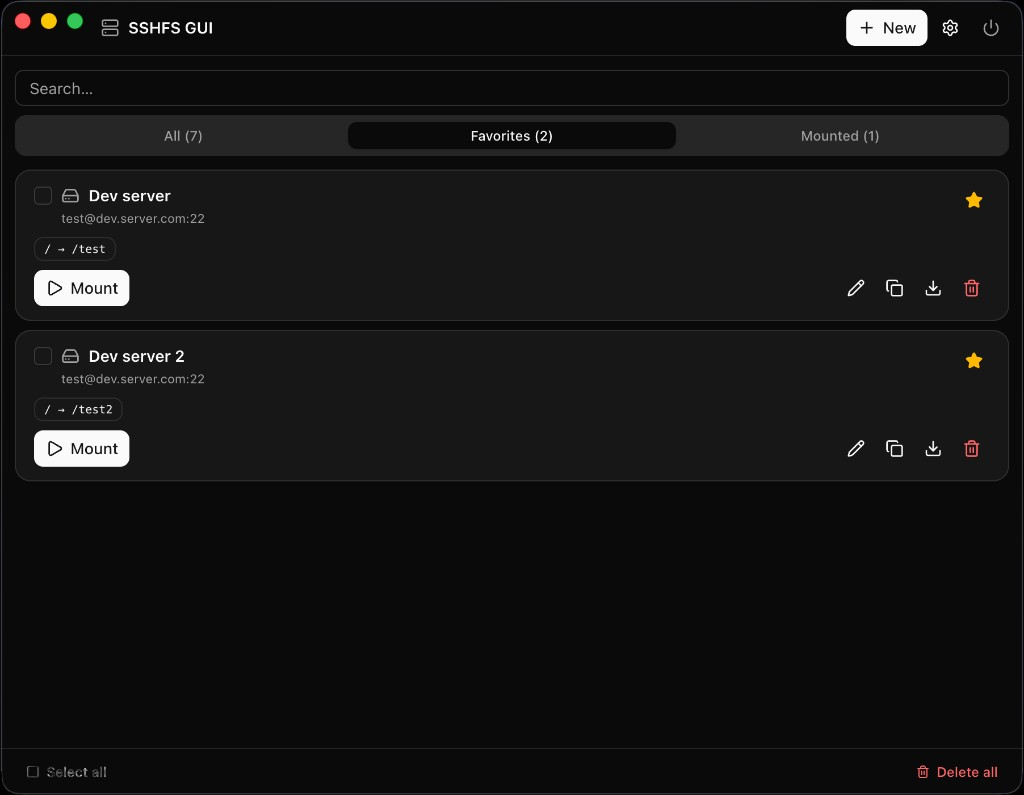
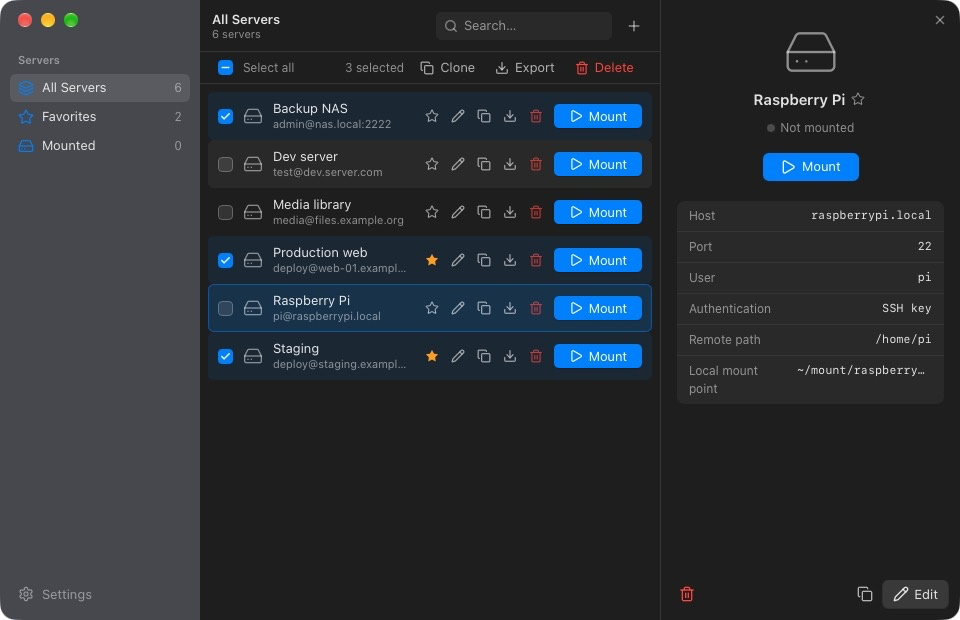
Ship sshfs and FUSE-T inside the app
- Build sshfs against FUSE-T with a static GLib built from source for macOS 11, arm64 and x86_64
- Bundle sshfs, go-nfsv4, libfuse3 and the third-party licenses through tauri.bundled-sshfs.conf.json
- Release and build scripts stage the bundled binaries; CI builds and checks them for both architectures
- README, changelog and screenshot for 1.2.0

diff --git a/README.md b/README.md
@@ -18,13 +18,14 @@
 </p>
 
 <p align="center">
-  <img src="resources/screenshot.png" width="720" alt="SSHFS GUI main window with saved servers, favorites filter, and mount actions">
+  <img src="resources/screenshot.png" width="720" alt="SSHFS GUI main window with the sidebar, a multiple selection and the detail panel">
 </p>
 
 ---
 
 ## Features
 
+- **Batteries included** - sshfs and FUSE-T are built in, no extra installs
 - **Multiple servers** - Save, edit, clone, and organize as many SSH connections as you need
 - **One-click mount/unmount** - Mount remote directories to local folders with a single click
 - **Favorites & filters** - Star your most-used servers, filter by favorites or mounted status
@@ -33,49 +34,14 @@
 - **Multiple auth methods** - SSH agent, SSH key, or password authentication
 - **Menu bar mode** - Optionally run as a menu bar app with quick access from the tray icon
 - **Import / Export** - Transfer server configurations and settings between machines via JSON
-- **Bulk actions** - Select multiple servers to clone, export, or delete at once
+- **Bulk actions** - Select servers with checkboxes or by dragging, then clone, export, or delete them at once
 - **Multi-language** - English and Italian, with automatic detection or manual override
-- **Native macOS look** - Dark mode, custom title bar, smooth animations
+- **Native macOS look** - Translucent sidebar, system light/dark theme and accent color, native menus
 - **Reveal in Finder** - Open mounted directories directly in Finder
 
 ## Requirements
 
-SSHFS GUI needs a **FUSE stack** on macOS: a FUSE implementation plus an `sshfs` binary. Homebrew's core formula `sshfs` depends on Linux (`libfuse`) and **does not install on macOS**. Use the references below, or install via Homebrew (pick one stack).
-
-**References:** [FUSE-T](https://github.com/macos-fuse-t/fuse-t) · [FUSE-T SSHFS](https://github.com/macos-fuse-t/sshfs) · [macFUSE](https://macfuse.io/) · [Homebrew](https://brew.sh)
-
-### Install with Homebrew
-
-#### Option A - FUSE-T + SSHFS (no kernel extension)
-
-Uses NFS locally instead of a kext. Usually the simplest path on recent macOS.
-
-```bash
-brew tap macos-fuse-t/homebrew-cask
-brew install --cask fuse-t fuse-t-sshfs
-```
-
-On some macOS versions with FUSE-T, Finder may need extra `sshfs` options (e.g. `-o nonamedattr`). Add them in the app's SSHFS extra options if you hit mount or copy issues.
-
-#### Option B - macFUSE + SSHFS (kernel extension)
-
-Use this if you need the classic macFUSE stack or already rely on it.
-
-1. Install [macFUSE](https://macfuse.io/) (allow the system extension when macOS prompts you).
-
-   ```bash
-   brew install --cask macfuse
-   ```
-
-2. Install **SSHFS for macFUSE** (separate from Homebrew core `sshfs`):
-
-   ```bash
-   brew install gromgit/fuse/sshfs-mac
-   ```
-
-This tap targets macFUSE. Upstream SSHFS is older than on Linux: see the formula caveats. Alternatively, install SSHFS from the [macFUSE / SSHFS project](https://github.com/macfuse/sshfs) if you prefer their official packages.
-
-The app checks for these dependencies and shows guidance if `sshfs` or FUSE is missing.
+macOS 11 or later. SSHFS GUI ships with everything it needs to mount: `sshfs` and [FUSE-T](https://www.fuse-t.org), which works without kernel extensions. Nothing else to install, and it runs alongside any sshfs, macFUSE or FUSE-T already on your Mac.
 
 ## Installation
 
@@ -85,7 +51,7 @@ Download the latest `.dmg` from [Releases](https://github.com/tommasomeli/sshfsg
 
 ### Adding a server
 
-1. Click **+ New** in the top bar
+1. Click **+** in the toolbar (or press `⌘N`)
 2. Fill in the connection details:
    - **Name** - A friendly label (e.g. "Production DB")
    - **Host** - Hostname or IP address
@@ -101,17 +67,17 @@ Download the latest `.dmg` from [Releases](https://github.com/tommasomeli/sshfsg
 
 ### Mounting
 
-Click **Mount** on any server card. The green dot indicates an active mount. Click **Unmount** to disconnect.
+Click **Mount** on any server row. A green dot marks an active mount; click **Unmount** to disconnect. The folder icon reveals the mount in Finder.
 
-Use the folder icon to reveal the mounted directory in Finder.
+Click a row to open its details in the side panel, which you can resize by dragging its edge. Double-click a row to edit it, right-click for the context menu.
 
-### Bulk operations
+### Selecting several servers
 
-Use the checkboxes on each server card to select multiple servers. The bottom bar shows available actions: **Clone**, **Export**, and **Delete**.
+Tick the checkboxes or drag a rectangle over the list. The bar above the list then offers **Clone**, **Export**, and **Delete** for the selection.
 
 ### Settings
 
-Open settings via the gear icon or `⌘,`:
+Open settings from the sidebar or with `⌘,`:
 
 - **Language** - System, English, or Italian
 - **Launch at login** - Start the app when you log in
@@ -121,7 +87,7 @@ Open settings via the gear icon or `⌘,`:
 
 ## Development
 
-Requirements: [Node.js](https://nodejs.org/) 20+, [pnpm](https://pnpm.io/) 10+, and a stable [Rust](https://www.rust-lang.org/tools/install) toolchain.
+Requirements: [Node.js](https://nodejs.org/) 20+, [pnpm](https://pnpm.io/) 10+, a stable [Rust](https://www.rust-lang.org/tools/install) toolchain, and for release builds `meson` and `ninja` (`brew install meson ninja`).
 
 ```bash
 pnpm install
@@ -133,6 +99,10 @@ pnpm run icons
 ```
 
 `pnpm run icons` regenerates `src-tauri/icons` from `resources/icon.svg`.
+
+Release builds run [`scripts/fuse-t/build-bundled-sshfs.sh`](scripts/fuse-t/build-bundled-sshfs.sh) first: it downloads pinned sources, builds sshfs against FUSE-T with a static GLib, and stages the files that go inside the app. `pnpm dev` uses the `sshfs` found on your system.
+
+`pnpm demo:seed` swaps your servers for a demo set (for screenshots) and `pnpm demo:restore` puts yours back. Quit the app before running either.
 
 Shared metadata lives in `src/shared/`:
 - `app-info.json` - product name, app id, slug, developer, GitHub URL, description, export format version
@@ -158,3 +128,5 @@ See [CONTRIBUTING.md](CONTRIBUTING.md). Bug reports and feature requests use the
 ## License
 
 [ISC](LICENSE) - Tommaso Meli
+
+The app bundles third-party software under its own licenses: [sshfs](https://github.com/macos-fuse-t/sshfs) (GPL-2.0), [FUSE-T](https://www.fuse-t.org) (FUSE-T license, libfuse under LGPL) and [GLib](https://gitlab.gnome.org/GNOME/glib) (LGPL-2.1). License texts and source links are in `SSHFS GUI.app/Contents/Resources/third-party/`.

diff --git a/CHANGELOG.md b/CHANGELOG.md
@@ -2,6 +2,14 @@
 
 ## [Unreleased]
 
+## 1.2.0
+
+- sshfs and FUSE-T built into the app: nothing else to install, and it coexists with any sshfs, macFUSE or FUSE-T already installed
+- Mac-native interface: translucent sidebar with filters, system light/dark theme and accent color
+- Server list with inline actions and a resizable detail panel
+- Multiple selection with checkboxes or by dragging, with bulk clone, export and delete
+- Native context menus and keyboard shortcuts (⌘N, ⌘F, ⌘A, ⌘⌫, Enter, arrow keys)
+
 ## 1.1.0
 
 - Migrated the app shell from Electron to Tauri 2
